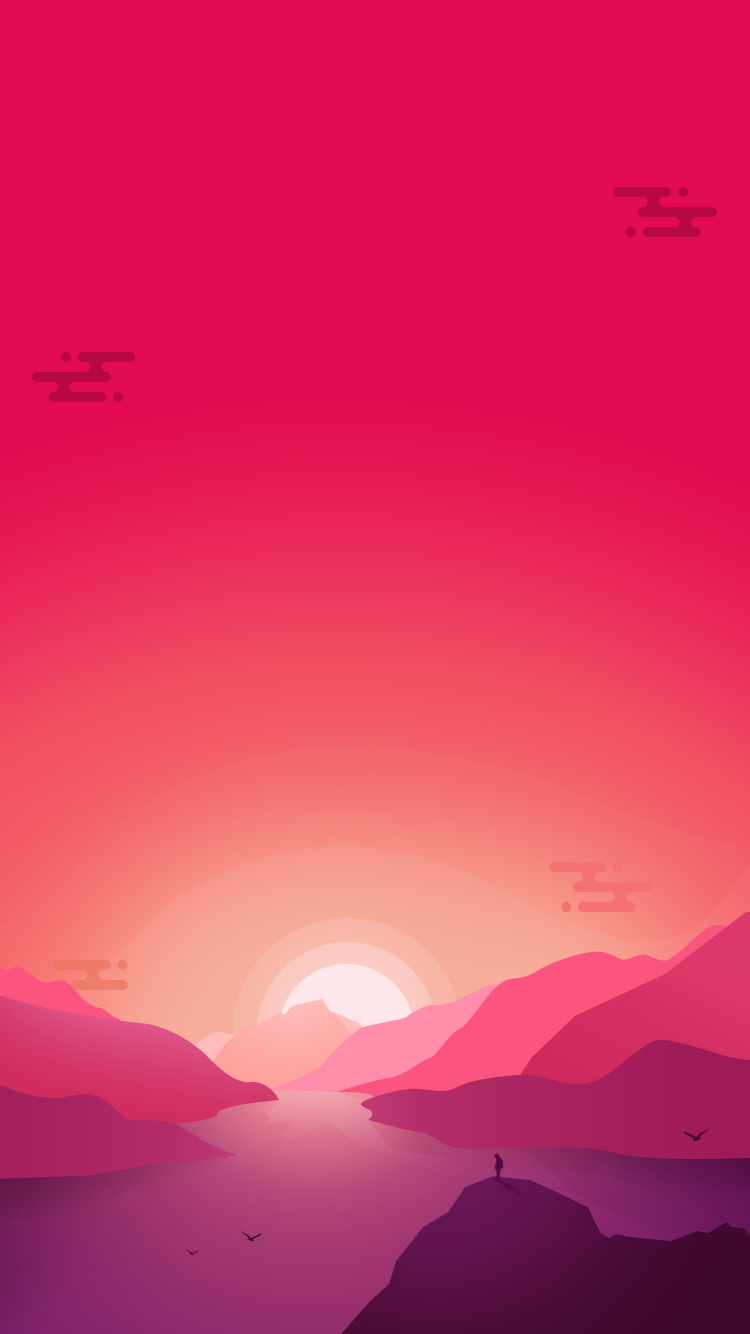
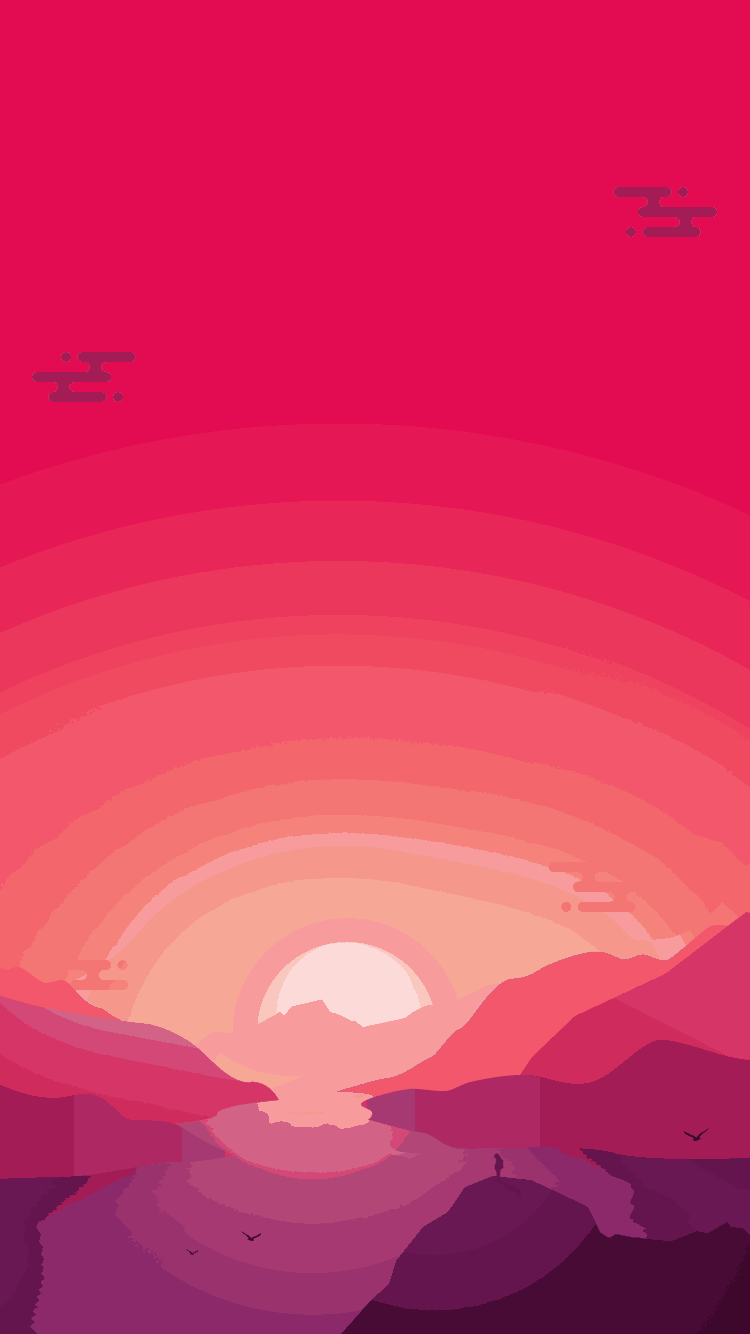
feat: update assets and configuration for improved performance and new features
- Added lazy code loading configuration in app.json.
- Updated project.config.json to ignore unused development files and added specific files and folders to the ignore list.
- Introduced new audio file (audio_001.wav) and updated references in the code.
- Replaced background image in answers.wxml with a new PNG format.
- Updated QR code image format in sun_rise.js from JPG to PNG.

diff --git a/the-book-of-answers/pages/answers/answers.js b/the-book-of-answers/pages/answers/answers.js
@@ -3,8 +3,6 @@
 var app = getApp()
 var answerData = require("./answer_data.js")
 
-const AUDIO_START_TIME = 5
-
 Page({
   /**
    * 页面的初始数据
@@ -17,7 +15,7 @@ Page({
     contentAnimation: "",
     subContentAnimation: "",
     expAnimation: "",
-    audio_src: "../../assets/audio_001.mp3",
+    audio_src: "../../assets/audio_001.wav",
     tableStyle: "",
   },
 
@@ -57,7 +55,7 @@ Page({
     // 使用 InnerAudioContext 管理短音频，并在页面卸载时释放资源
     this.audioCtx = wx.createInnerAudioContext()
     this.audioCtx.src = this.data.audio_src
-    this.audioCtx.startTime = AUDIO_START_TIME
+    this.audioCtx.loop = true
   },
 
   /**

diff --git a/the-book-of-answers/pages/sun_rise/sun_rise.js b/the-book-of-answers/pages/sun_rise/sun_rise.js
@@ -26,7 +26,7 @@ var POSTER_QR_TOP = 1334
 var POSTER_CONTENT_Y = 299
 var POSTER_SUB_CONTENT_Y = 508
 var POSTER_BG = "../../assets/sun_rise/save_bg.png"
-var POSTER_QR = "../../assets/sun_rise/save_QR_code.jpg"
+var POSTER_QR = "../../assets/sun_rise/save_QR_code.png"
 
 Page({
 
